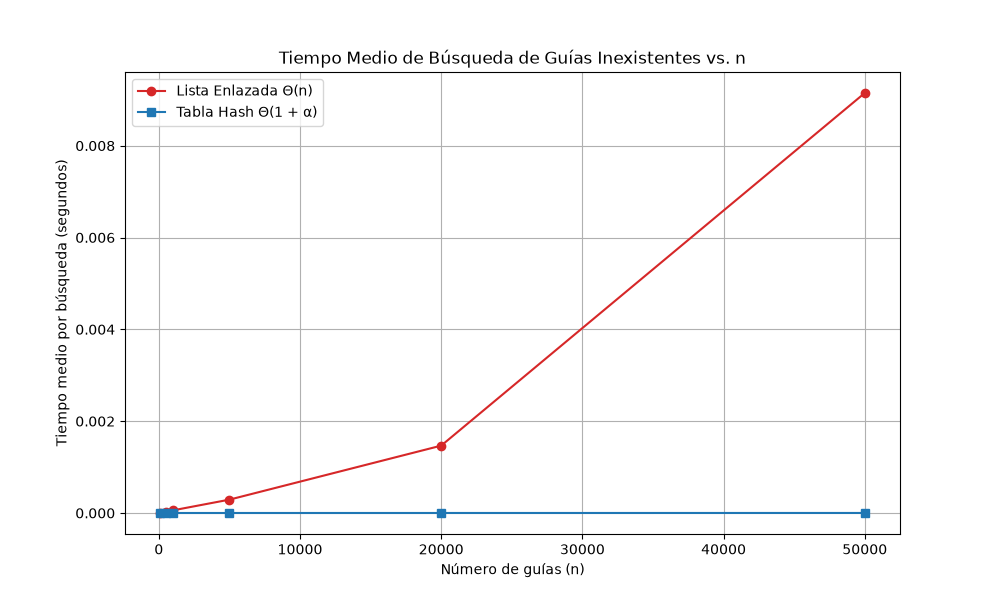
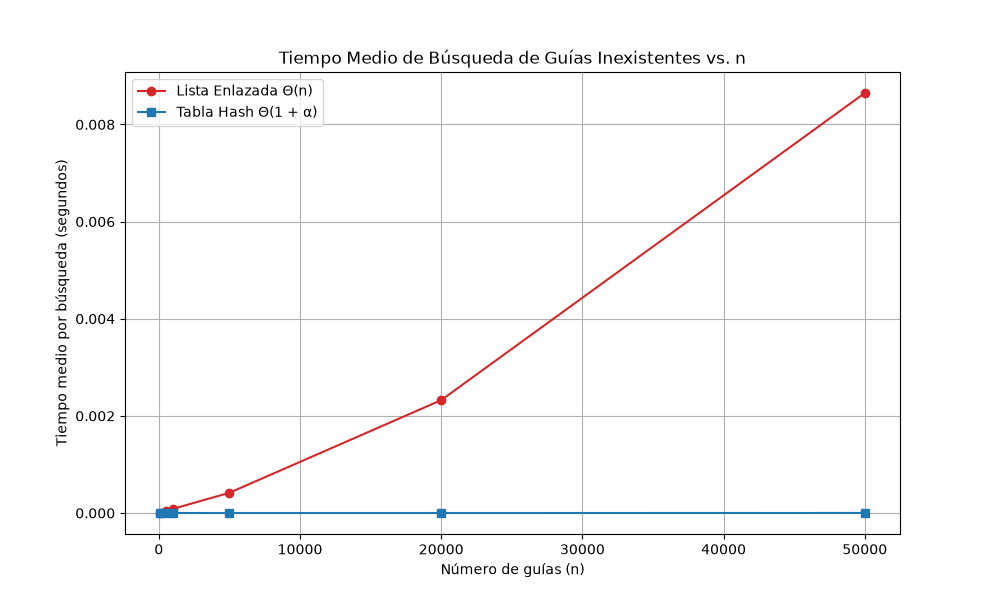
Docs: Agrega informe completo, analisis riguroso y  tabla con datos promedio

diff --git a/lab3-estructuras-datos/README.md b/lab3-estructuras-datos/README.md
@@ -1,0 +1,119 @@
+# Laboratorio 3 — Estructuras de Datos: Caso Rutas del Caribe
+
+**Estudiante:** Laura Posada Taborda  
+**Repositorio:**  `lab3-estructuras-datos/`
+
+---
+
+## Instrucciones para reproducir el experimento
+
+Activar el entorno virtual, instalar dependencias y ejecutar las pruebas o mediciones:
+
+### 1. Ubicarse en la raíz del repositorio o carpeta del laboratorio
+
+```bash
+cd lab3-estructuras-datos
+
+# Activar el entorno virtual (compatible con Linux/Mac o Git Bash en Windows)
+source ../venv/Scripts/activate
+
+# Instalar la librería de graficación requerida (Matplotlib)
+pip install matplotlib
+
+```
+
+### 2. Ejecutar el script de pruebas unitarias y de verificación (`pruebas.py`)
+
+Valida el funcionamiento correcto de `ListaEnlazada` y `TablaHash`:
+
+```bash
+python pruebas.py
+```
+
+### 3. Ejecutar el experimento de medición de tiempos y generar las gráficas (`medicion.py`)
+
+Mide el tiempo medio de búsqueda de guías inexistentes, generando las imágenes en la carpeta `graficas/`:
+
+```bash
+python medicion.py
+```
+
+---
+
+## Parte 1 — Implementación y Verificación
+
+**Código:** [`estructuras.py`](estructuras.py) | [`pruebas.py`](pruebas.py)
+
+Las estructuras se verificaron con aserciones (`assert`) que comprobaron lo siguiente:
+
+- Búsquedas exitosas tanto en la lista enlazada como en la tabla hash.
+- La colisión forzada con $m = 7$, donde las guías $10$, $24$ y $17$ caen en la casilla $3$ ($10 \pmod 7 = 3$, $24 \pmod 7 = 3$, $17 \pmod 7 = 3$), validando que la lista de dicha casilla almacena los 3 elementos y que el factor de carga resultante es exactamente $\frac{3}{7}$.
+- La concordancia exacta de los resultados devueltos por ambas estructuras en 20 colecciones aleatorias distintas.
+
+---
+
+## Parte 2 — Medición y Gráficas
+
+**Código:** [`medicion.py`](medicion.py)
+
+### Tabla de Datos Medidos (Promedio de 3 repeticiones para 200 búsquedas)
+
+| Tamaño de entrada (n) | Casillas (m) | Factor de carga (α≈2) | Tiempo medio Lista Enlazada (Θ(n)) | Tiempo medio Tabla Hash (Θ(1+α)) |
+|----------------------:|-------------:|----------------------:|-----------------------------------:|----------------------------------:|
+| 100    | 53     | 1,89 | $8,50 \times 10^{-6}$ s | $5,00 \times 10^{-7}$ s |
+| 500    | 251    | 1,99 | $3,46 \times 10^{-5}$ s | $1,32 \times 10^{-6}$ s |
+| 1.000  | 503    | 1,99 | $8,55 \times 10^{-5}$ s | $5,00 \times 10^{-7}$ s |
+| 5.000  | 2.503  | 2,00 | $4,17 \times 10^{-4}$ s | $6,00 \times 10^{-7}$ s |
+| 20.000 | 10.007 | 2,00 | $2,32 \times 10^{-3}$ s | $6,20 \times 10^{-7}$ s |
+| 50.000 | 25.013 | 2,00 | $8,64 \times 10^{-3}$ s | $1,27 \times 10^{-6}$ s |
+
+> **Nota:** Los tiempos se obtuvieron promediando 3 rondas independientes de 200 consultas de guías inexistentes utilizando `time.perf_counter()` para mitigar el ruido operativo del sistema operativo. 
+
+### Gráficas
+
+**Experimento A — Lista enlazada vs. tabla hash**
+
+![Experimento A: tiempo de búsqueda de lista enlazada vs. tabla hash](graficas/lista_vs_tabla.png)
+
+**Experimento B — Tiempo vs. factor de carga α**
+
+![Experimento B: tiempo medio de búsqueda vs. factor de carga](graficas/tiempo_vs_alfa.png)
+
+---
+
+## Parte 3 — Análisis Teórico y Práctico
+
+### 1. Costo teórico
+
+- **Lista Enlazada ($\Theta(n)$):** Para buscar una guía inexistente, el algoritmo recorre cada uno de los nodos desde la cabeza hasta el final. Al escalar linealmente con $n$, su complejidad temporal es $\Theta(n)$.
+- **Tabla Hash con Encadenamiento ($\Theta(1 + \alpha)$):** Esta calcula el índice hash en tiempo constante $\Theta(1)$ y recorre únicamente la sub-lista enlazada de esa casilla (cuyo tamaño esperado es el factor de carga $\alpha = n / m$). El costo total esperado es $\Theta(1 + \alpha)$.
+- **Supuesto y colisiones masivas:** Este rendimiento se sostiene bajo el supuesto de hashing uniforme simple. Si todas las guías cayeran en la misma casilla, la tabla hash se degradaría a una lista enlazada de tamaño $n$, elevando el costo a $\Theta(n)$.
+
+### 2. Lo medido contra lo esperado
+
+- **Experimento A (`lista_vs_tabla.png`):** Cuando se duplica el tamaño de entrada de $n = 10.000$ (interpolado) a $n = 20.000$ ($0,00232$ s) y de $n = 25.000$ a $n = 50.000$ ($0,00864$ s), el tiempo en la Lista Enlazada creció de forma lineal de acuerdo con $\Theta(n)$. La Tabla Hash se mantuvo prácticamente sin cambiar en microsegundos ($\approx 1,27 \times 10^{-6}$ s para $n = 50.000$), validando la cota $\Theta(1 + \alpha)$.
+- **Experimento B (`tiempo_vs_alfa.png`):** Al incrementar el factor de carga $\alpha$ desde $0,5$ hasta $10$, el tiempo medio de búsqueda aumentó de manera controlada, coherente con el modelo $\Theta(1 + \alpha)$ debido al mayor tamaño de los encadenamientos.
+
+### 3. Explique las colisiones
+
+Una colisión ocurre cuando dos claves distintas producen el mismo índice hash ($h(k_1) = h(k_2)$).
+
+- **Encadenamiento:** Almacena una lista enlazada por casilla. *Ventaja:* Maneja $\alpha > 1$ robustamente. *Costo:* Memoria adicional para punteros.
+- **Direccionamiento Abierto:** Almacena los elementos directamente en la tabla usando sondeo ante colisiones. *Ventaja:* No usa punteros. *Costo:* Exige $\alpha < 1$ y borrados complejos.
+
+**Ejemplo (guías 10, 24, 17 con $m = 7$):** $10 \pmod 7 = 3$, $24 \pmod 7 = 3$, $17 \pmod 7 = 3$. Las tres colisionan en la casilla 3, formando un encadenamiento de longitud 3.
+
+### 4.Tabla hash o árbol de búsqueda
+
+- **¿Sirve la tabla hash para monitoreo por rango ("guías entre X y Y")?** No. Al dispersar las claves mediante la función hash, requeriría recorrer toda la tabla en tiempo $\Theta(n + m)$, acabando con su eficiencia.
+- **Árbol de búsqueda binario (ABB):** Mantiene las claves ordenadas, permitiendo consultas por rango eficientes.
+- **Degeneración del ABB:** Si las $400.000$ guías llegaran ya ordenadas, un ABB sin balanceo degeneraría en una estructura lineal con altura $h = n = 400.000$ y hasta $400.000$ comparaciones en el peor caso. Un árbol equilibrado mantendría una altura estricta $h = \lfloor \log_2 400.000 \rfloor \approx 18$ niveles.
+
+### 5. Concepto para la jefa de operaciones
+
+Se recomienda una estrategia híbrida, tener una Tabla Hash para las consultas puntuales del call center ($\Theta(1)$) y un Árbol de Búsqueda Equilibrado separado para los monitoreos por rango.
+
+Para estimar el desempeño ante una consulta de una guía inexistente con 5.000.000 de envíos:
+
+- **Lista Enlazada actual:** Requeriría recorrer los 5 millones de nodos. Extrapolando linealmente a partir del tiempo medido en $n = 50.000$ ($0,00864$ s), el factor de escala es $\frac{5.000.000}{50.000} = 100$. El tiempo estimado sería de $0,00864 \times 100 \approx \mathbf{0,86\text{ segundos}}$ por consulta en el peor caso, lo cual genera congestión inaceptable en un call center en hora pico.
+- **Tabla Hash optimizada:** Con $\alpha \approx 1$, el tiempo medio se mantiene constante en $\Theta(1)$ (medido en $\approx 1,27 \times 10^{-6}$ s), finalizando de forma instantánea. *(Esto es una estimación matemática ).*
